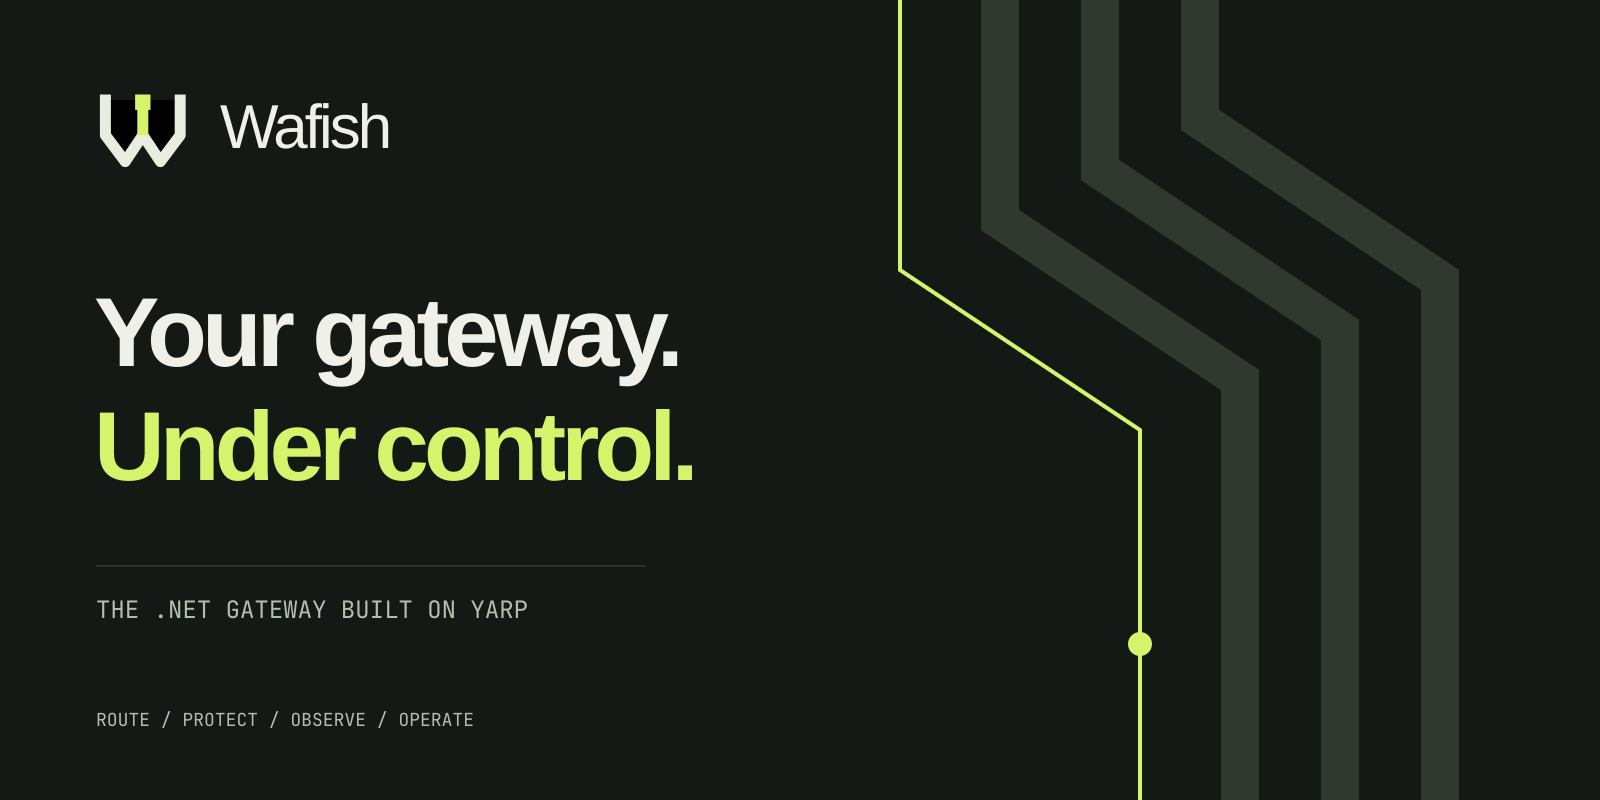
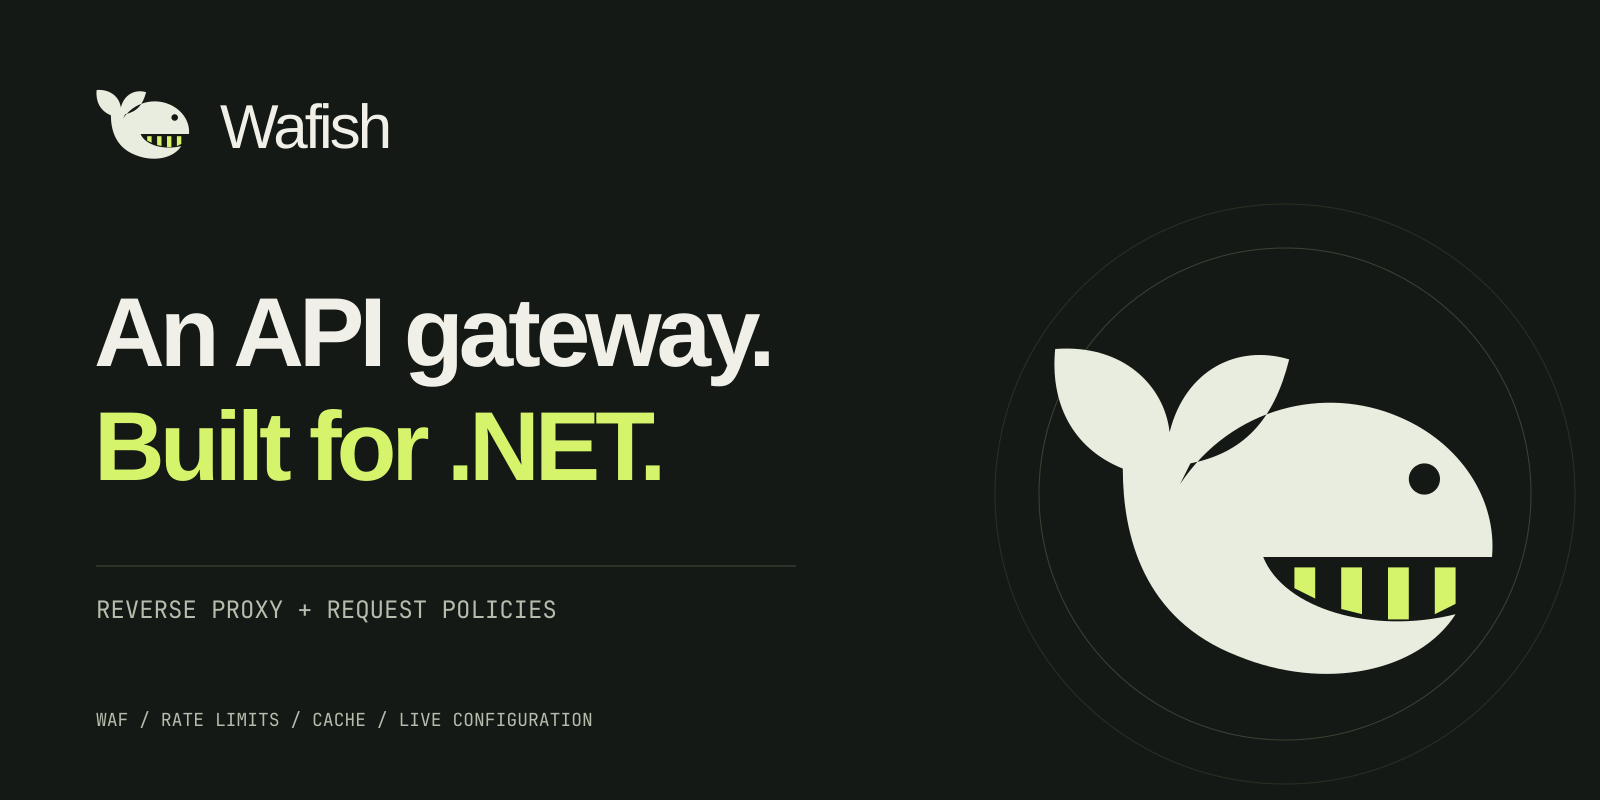
feat(brand): replace the routing mark with a baleen whale
Use a whale silhouette and visible filter bars across the SVG master, root images, website, administration UI, and favicons. Generate the website mark directly from the master and rebuild brand exports.

diff --git a/src/Wafish.ReactUi/ClientApp/src/components/wafish-mark.tsx b/src/Wafish.ReactUi/ClientApp/src/components/wafish-mark.tsx
@@ -1,15 +1,20 @@
 export function WafishMark({ className = "size-6" }: { className?: string }) {
   return (
-    <svg className={className} viewBox="0 0 96 96" fill="none" aria-hidden="true">
+    <svg
+      className={className}
+      viewBox="0 0 96 96"
+      fill="none"
+      aria-hidden="true"
+    >
       <path
-        d="M14 20v32l18 24 16-24 16 24 18-24V20"
-        stroke="currentColor"
-        strokeWidth="10"
-        strokeLinecap="square"
-        strokeLinejoin="round"
+        fill="currentColor"
+        fillRule="evenodd"
+        d="M30 46C40 31 58 27 72 33C84 38 91 49 90 60H46C50 70 67 75 83 71C76 82 58 86 41 79C23 72 19 56 19 43C9 39 5 30 6 20C19 19 27 27 28 36C31 24 41 19 51 22C48 34 42 40 32 42L30 46ZM80 45a3 3 0 1 0-6 0a3 3 0 1 0 6 0Z"
       />
-      <path d="M48 22v30" stroke="currentColor" strokeWidth="10" />
-      <path d="M41 15h14v14H41z" fill="currentColor" />
+      <path
+        fill="currentColor"
+        d="M52 62h4v6l-4-2ZM61 62h4v9l-4-1ZM70 62h4v10h-4ZM79 62h4v7l-4 2Z"
+      />
     </svg>
   );
 }
